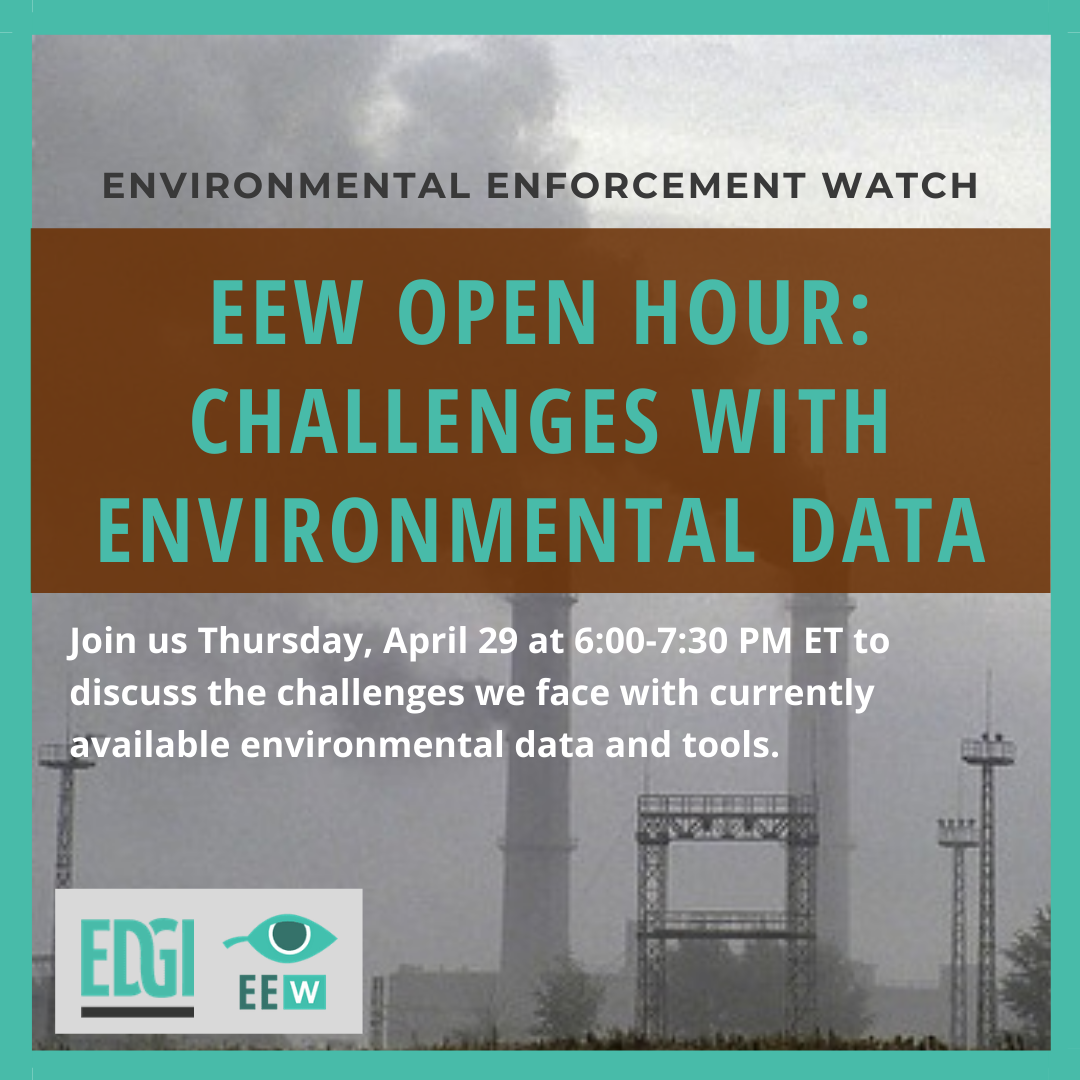
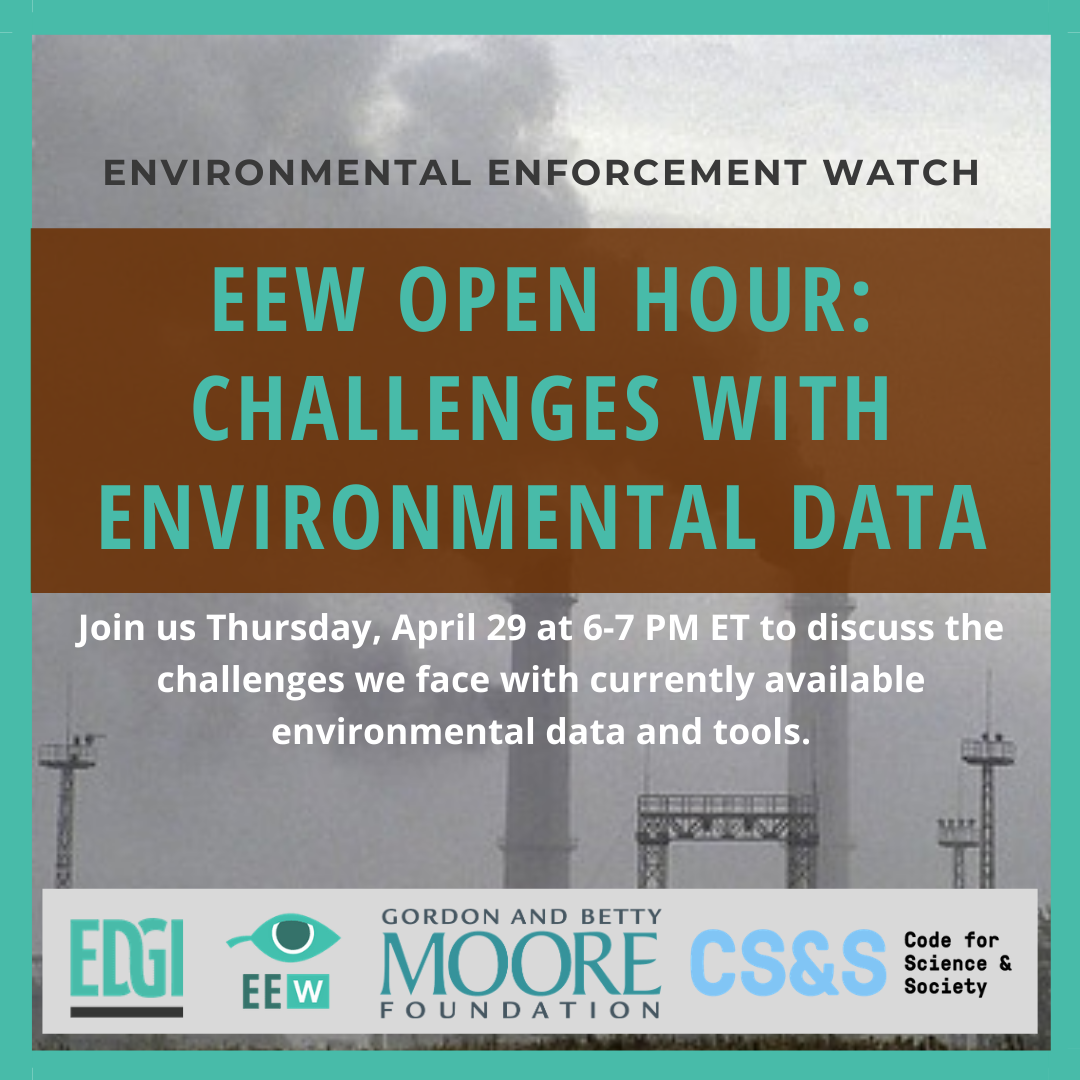
fixes https://github.com/edgi-govdata-archiving/EEW-Website/issues/281

diff --git a/content/home/home-content.md b/content/home/home-content.md
@@ -4,7 +4,7 @@
 
 The Environmental Protection Agency (EPA) is charged by Congress to enforce laws that protect people from air pollution, water pollution, and hazardous waste. The Environmental Enforcement Watch (EEW) works [with members of the public](/events) to analyze and present EPA data on violations of environmental laws, inspections of polluting facilities, and enforcement actions by the EPA.
 
-![Poster announcing 4/29 Open Hour event. Text reads: Environmental Enforcement Watch EEW Open Hour: Challenges with Environmental Data. Join us Thursday, April 29 at 6:00-7:00 ET to discuss the challenges we face with currently available environmental data and tools.](open-hour-poster.png)
+![Poster announcing 4/29 Open Hour event. Text reads: Environmental Enforcement Watch EEW Open Hour: Challenges with Environmental Data. Join us Thursday, April 29 at 6-7 ET to discuss the challenges we face with currently available environmental data and tools. Sponsor logos: EDGI, EEW, Moore Foundation, Code for Science & Society](open-hour-poster.png)
 
 ## Join us at an upcoming event!
 
